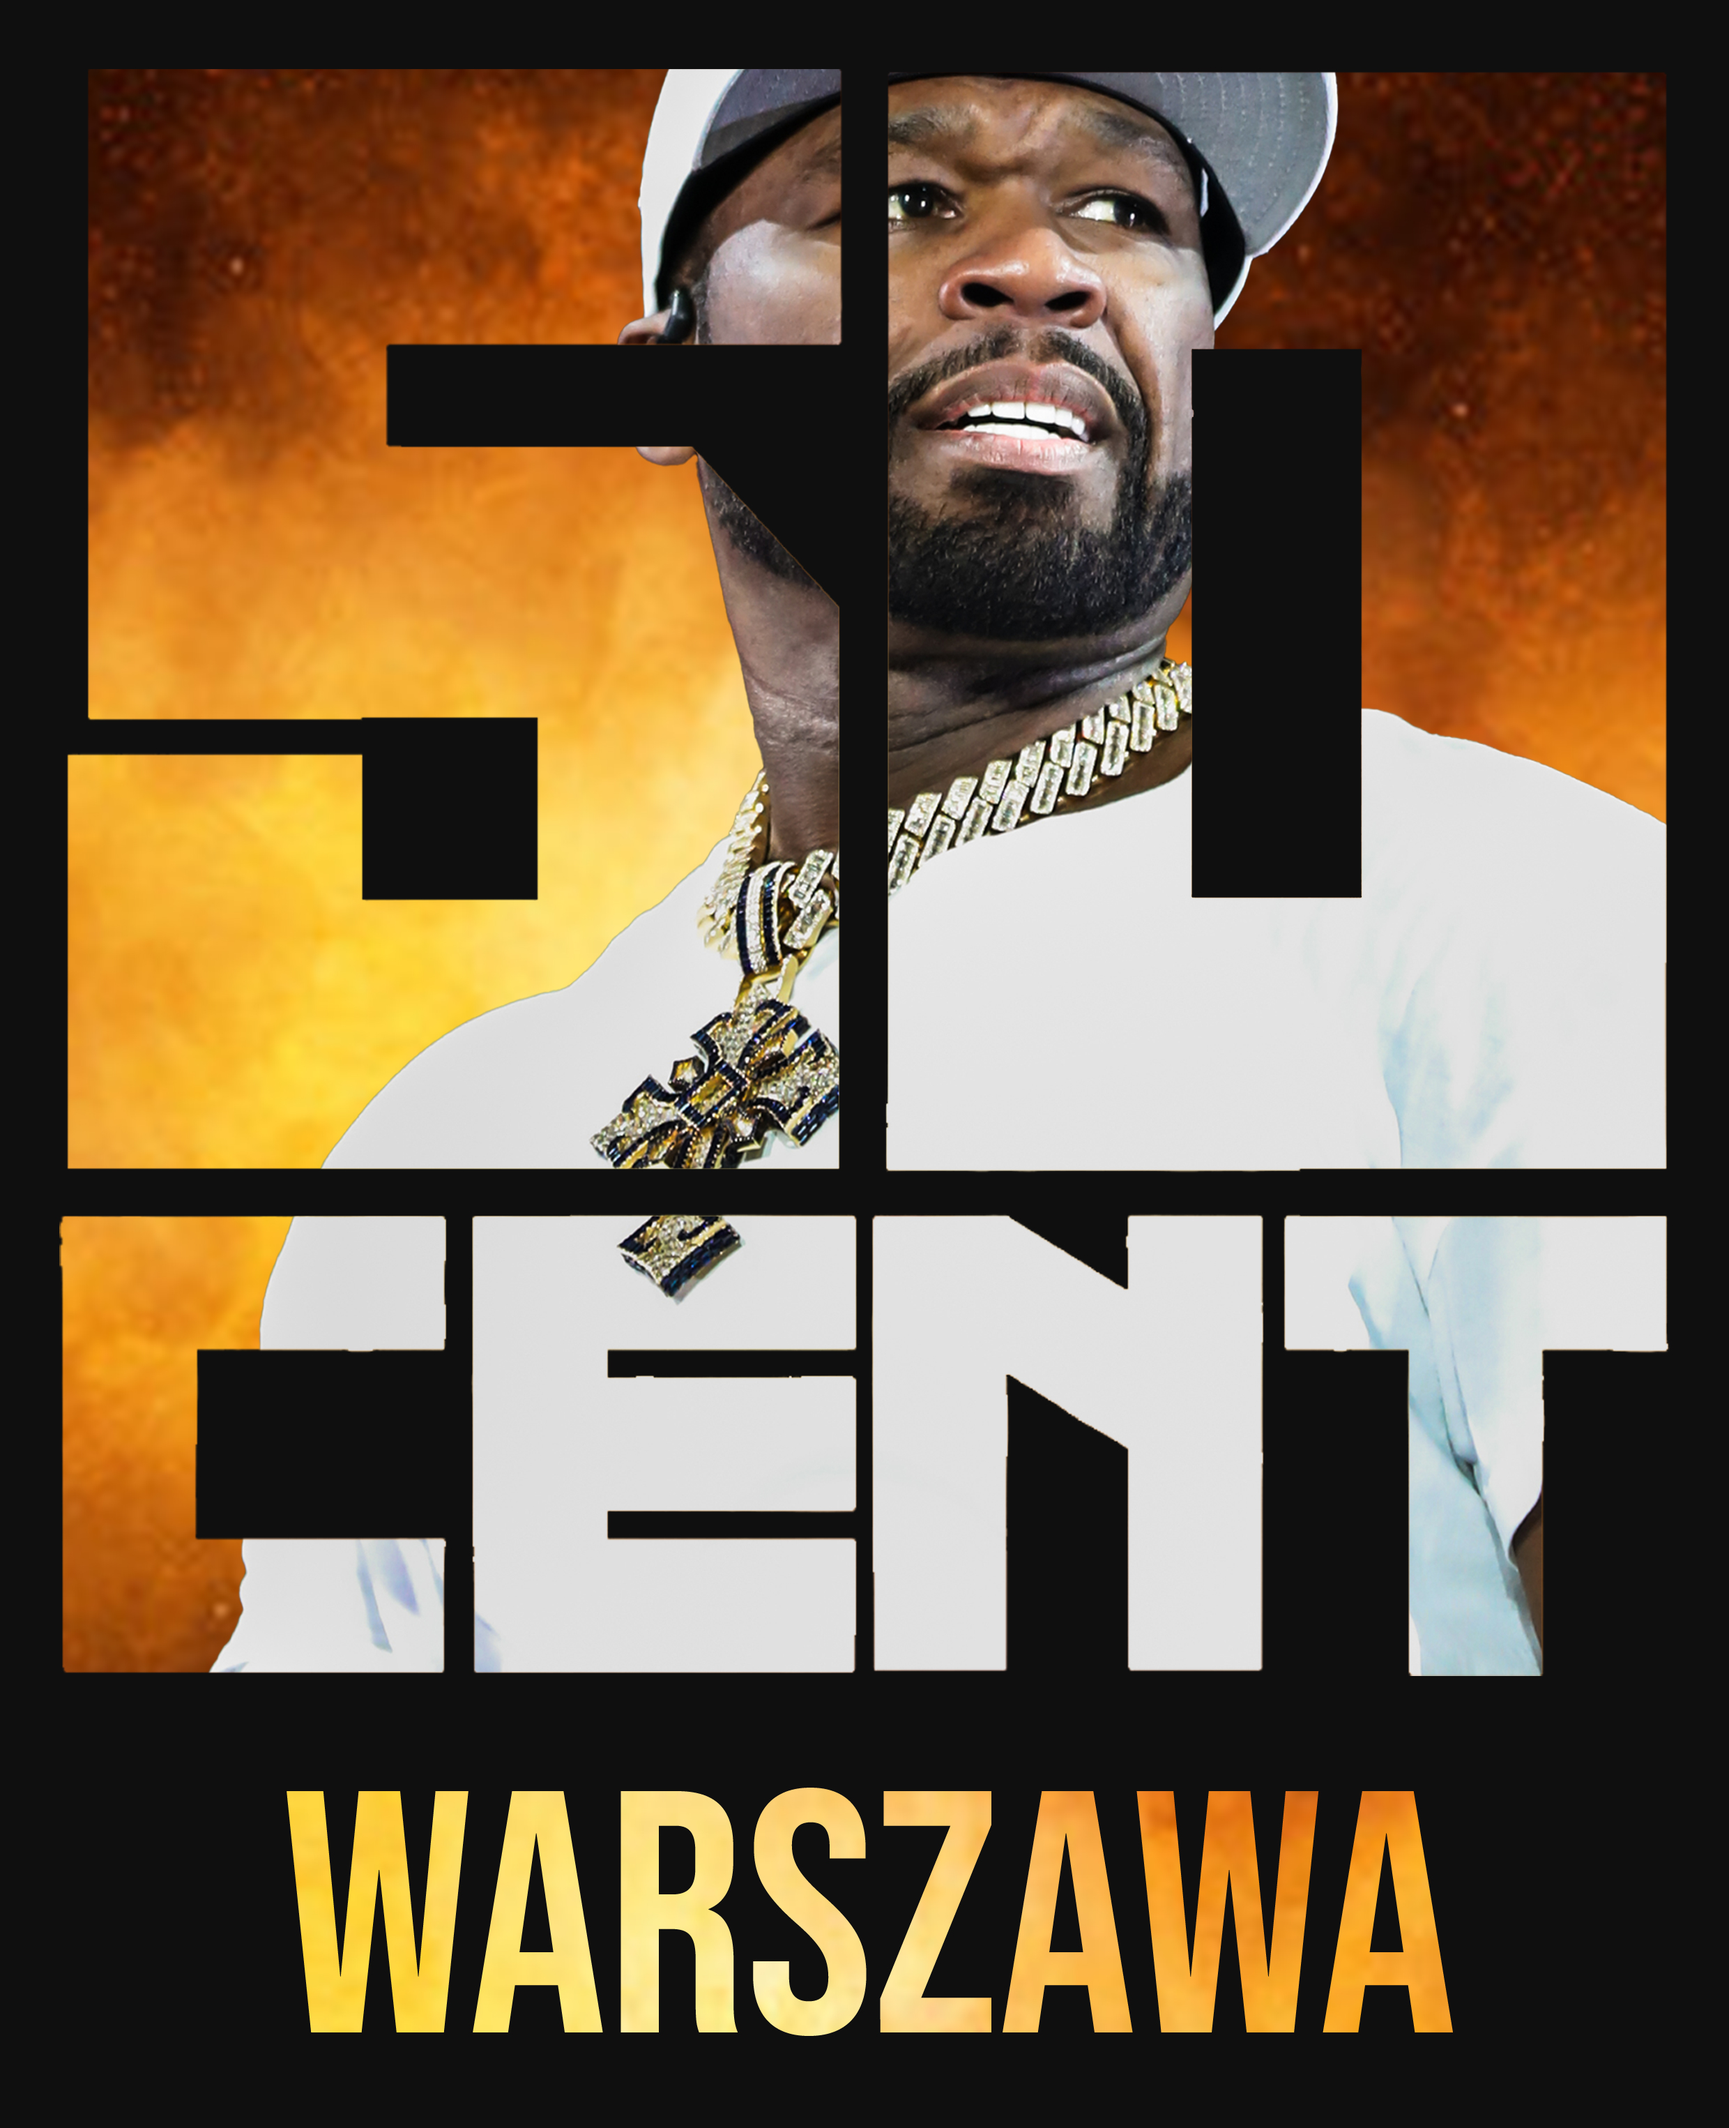
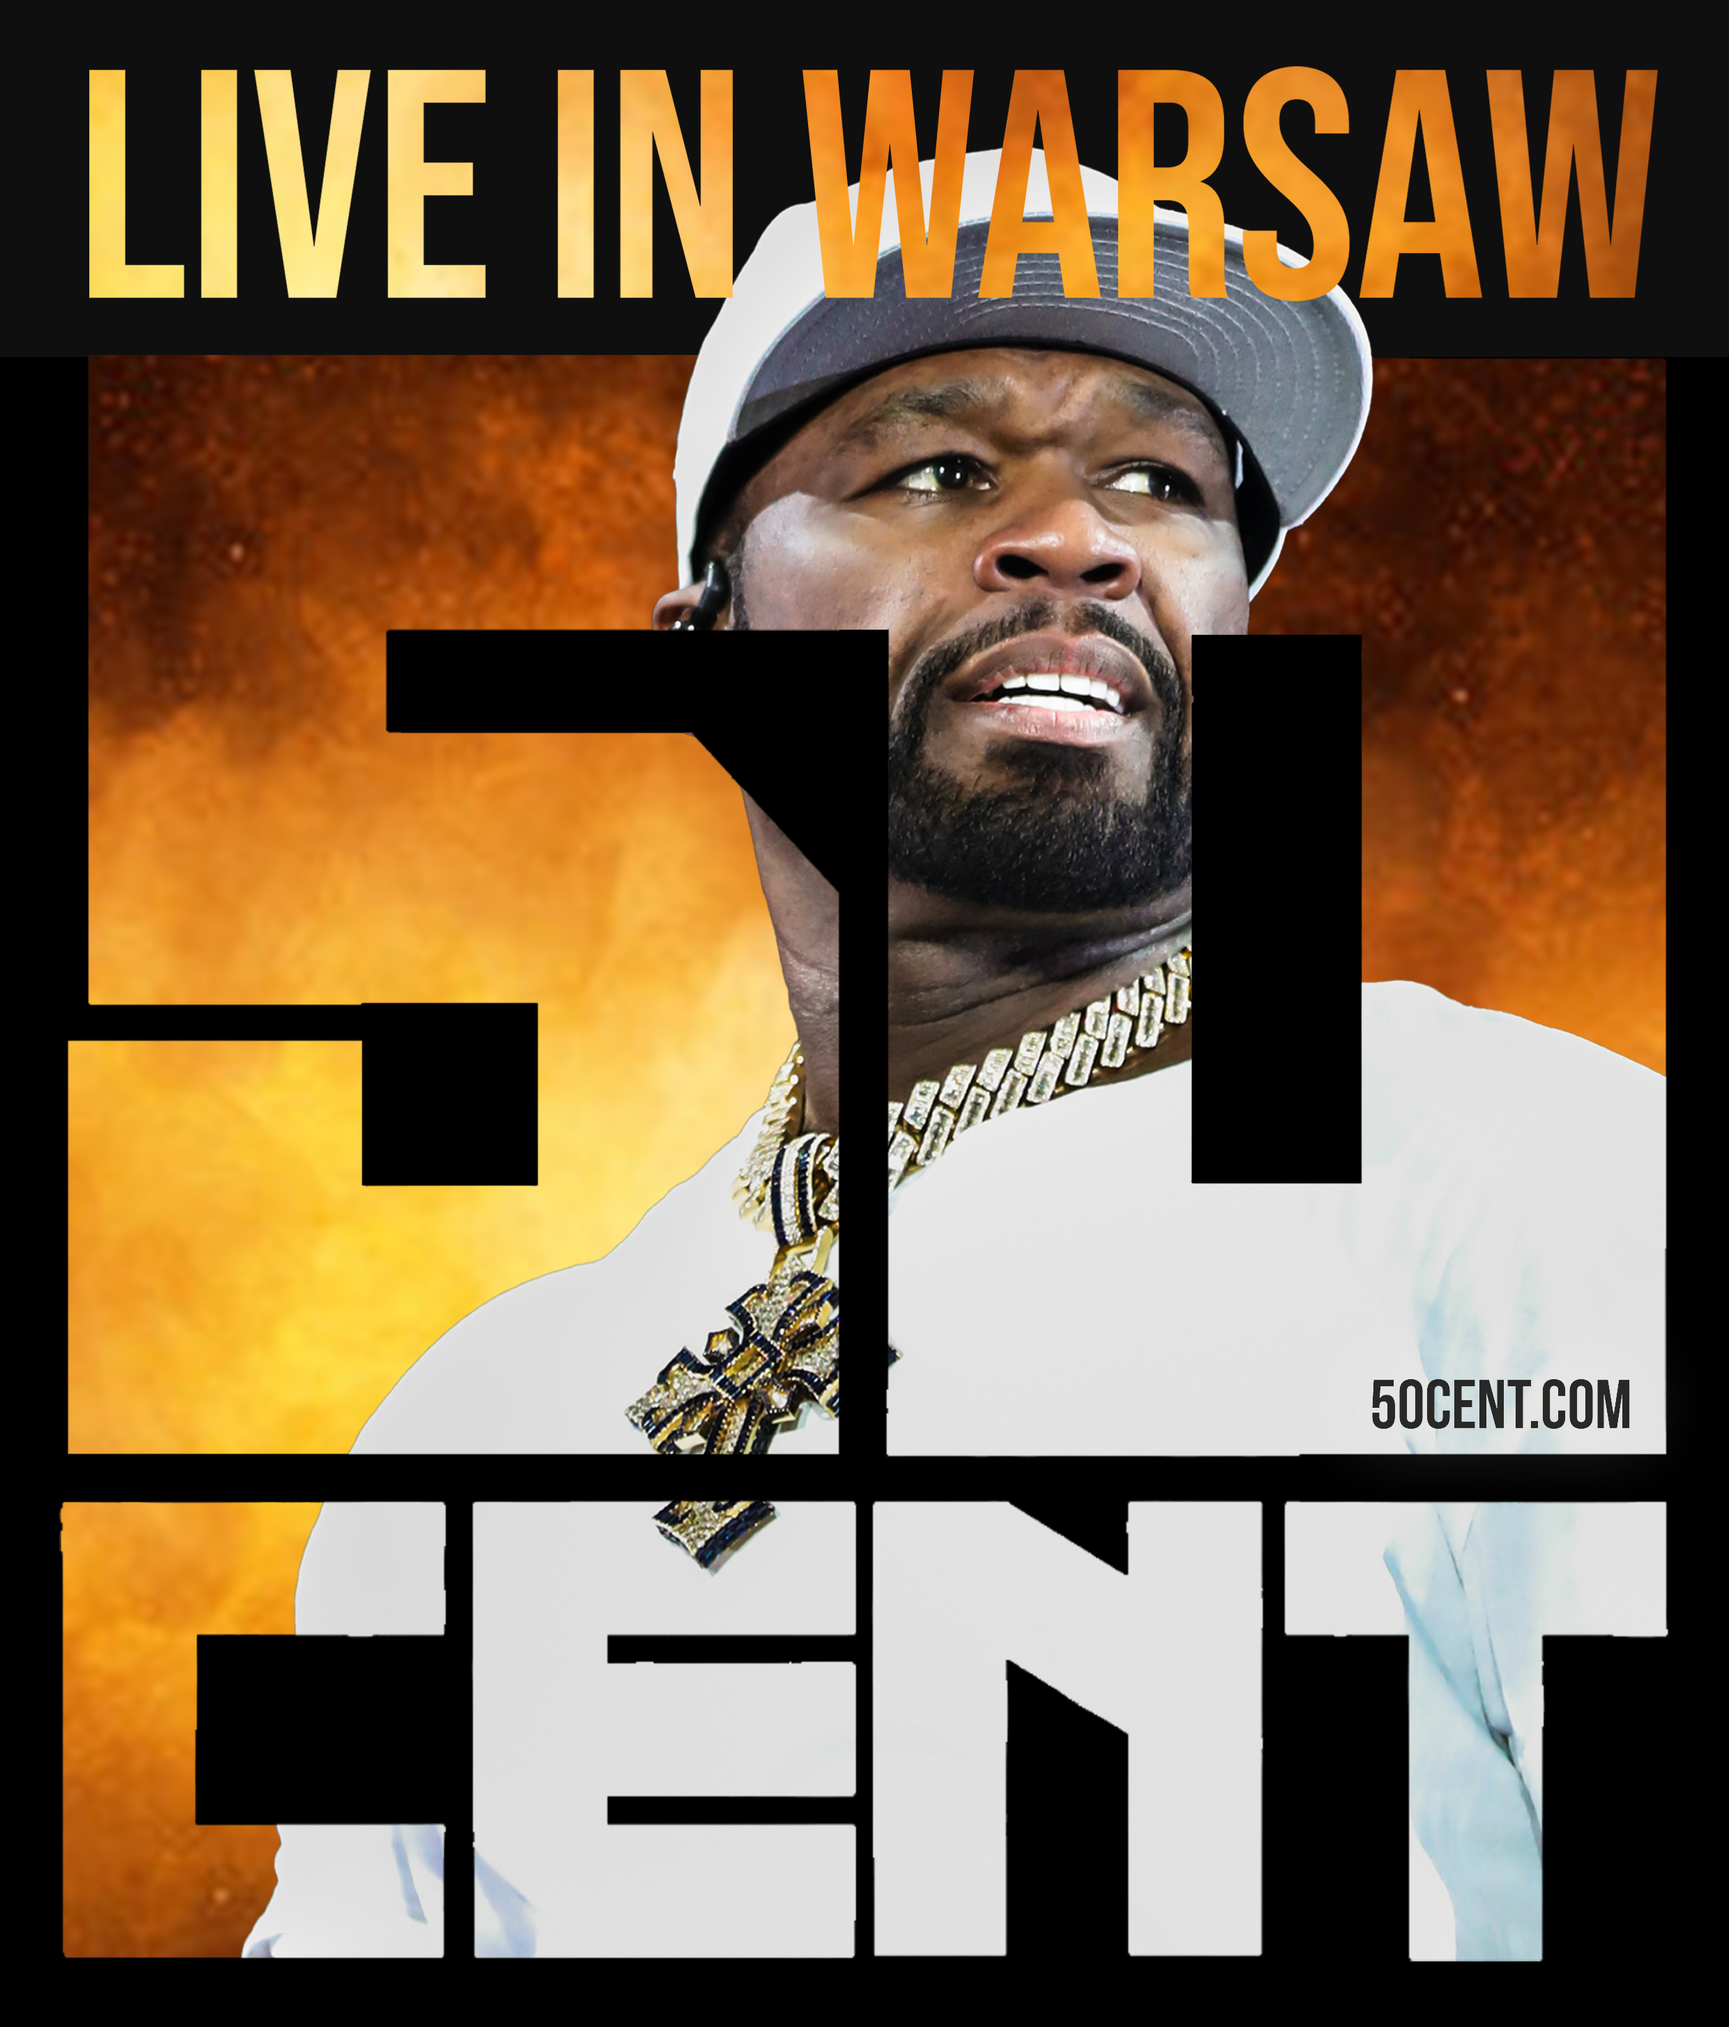
Обновил код

diff --git a/landing-50cent/components/Hero.jsx b/landing-50cent/components/Hero.jsx
@@ -1,143 +1,101 @@
 // components/Hero.jsx
 'use client'
 
-import { motion } from 'framer-motion'
-import CountdownTimer from './CountdownTimer'
-import { useState, useEffect, useRef } from 'react'
-import { usePathname } from 'next/navigation'
-import { ChevronDown } from 'lucide-react'
+import { useEffect, useRef, useState } from 'react'
+import { motion }            from 'framer-motion'
+import { usePathname }       from 'next/navigation'
+import { ChevronDown }       from 'lucide-react'
+import CountdownTimer        from './CountdownTimer'
 
 export default function Hero({ bgImage, targetDate }) {
-  const heroRef = useRef(null)
-  const pathname = usePathname()
-
+  const heroRef   = useRef(null)
+  const pathname  = usePathname()
   const [showArrow, setShowArrow] = useState(true)
 
+  /* ── динамический расчёт высоты ── */
   useEffect(() => {
-    // function updateHeight() {
-    //   const hdr = document.querySelector('header')
-    //   const hero   = heroRef.current
-    // //   if (!header || !hero) return
-    // //   hero.style.height = `${window.innerHeight - header.offsetHeight}px`
-    // if (hdr && hero) {
-    //     hero.style.height = `${window.innerHeight - hdr.offsetHeight}px`
-    //   }
-    
     function updateHeight() {
-        const hdr  = document.querySelector('header')
-        const hero = heroRef.current
-        const bar  = document.getElementById('mobile-buy-bar')
-        const barH = bar && getComputedStyle(bar).display !== 'none'
-                ? bar.offsetHeight
-                : 0
-        if (hdr && hero) {
-        hero.style.height = `${window.innerHeight - hdr.offsetHeight - barH}px`
-        }    
+      const hero = heroRef.current
+      const hdr  = document.querySelector('header')
+      const bar  = document.getElementById('mobile-buy-bar')
+
+      if (!hero || !hdr) return
+
+      const barH = bar && getComputedStyle(bar).display !== 'none'
+        ? bar.offsetHeight
+        : 0
+
+      /* ① сколько места есть по высоте */
+      const avail = window.innerHeight - hdr.offsetHeight - barH
+
+      /* ② максимум по соотношению (H ≤ 1.5 × W) */
+      const maxByRatio = hero.getBoundingClientRect().width * 1.5
+
+      hero.style.height = `${Math.min(avail, maxByRatio)}px`
     }
-
-
 
     updateHeight()
     window.addEventListener('resize', updateHeight)
+    return () => window.removeEventListener('resize', updateHeight)
+  }, [])
 
-    // const onScroll = () => setShowArrow(false)
-    // прячем стрелку, когда прокрутка > определённого значения
-    const threshold = heroRef.current
-        ? heroRef.current.offsetHeight * 0.1  // например, половины высоты Hero
-        : 100                                 // или 100px запасной вариант
-    const onScroll = () => {
-        if (window.scrollY > threshold) {
-        setShowArrow(false)
-        }
-    }
+  /* ── прячем стрелку при прокрутке hero на 10 % ── */
+  useEffect(() => {
+    const hero = heroRef.current
+    if (!hero) return
 
-    window.addEventListener('scroll', onScroll)
+    const threshold = hero.offsetHeight * 0.1
+    const onScroll  = () => window.scrollY > threshold && setShowArrow(false)
 
-    return () => {
-        window.removeEventListener('resize', updateHeight)
-        window.removeEventListener('scroll', onScroll)
-      }
+    window.addEventListener('scroll', onScroll, { passive: true })
+    return () => window.removeEventListener('scroll', onScroll)
   }, [pathname])
 
-  const scrollDown = () => {
+  const scrollDown = () =>
     document.getElementById('nextSection')?.scrollIntoView({ behavior: 'smooth' })
-  }
 
   return (
     <section
       ref={heroRef}
       className="
-        hero-section
-        relative
-        overflow-hidden
-        flex flex-col items-center justify-center
-        bg-[#0f0f0f]
-        // bg-center bg-cover
+        hero-section relative overflow-hidden
+        flex flex-col items-center justify-center bg-[#0f0f0f]
       "
-    //   style={{ backgroundImage: `url(${bgImage})` }}
-    // style={{ backgroundImage: "url('/images/stadium.png')" }}
-
     >
-        {/* ← слой стадиона */}
-    <img
+      {/* фоновый стадион */}
+      <img
         src="/images/stadium.png"
         alt=""
         className="absolute inset-0 w-full h-full object-cover opacity-30"
-    />
-      {/* ────────────── 85%: блок с изображением и оверлеем ────────────── */}
-      {/* <div className="relative w-full h-[85%] flex items-center justify-center overflow-hidden">
-        <img
-          src={bgImage}
-          alt="Hero"
-          className="absolute inset-0 w-auto h-full object-contain mx-auto"
-        />
-      </div> */}
+      />
+
+      {/* постер артиста (займёт всё свободное сверху) */}
       <motion.div
-        className="relative w-full h-[85%] overflow-hidden"
-        initial={{ opacity: 0 }}
-        animate={{ opacity: 1 }}
-        transition={{ delay: 0.3, duration: 1 }}
+        className="relative w-full flex-1 overflow-hidden"
+        initial={{ opacity: 0 }} animate={{ opacity: 1 }}
+        transition={{ delay: .3, duration: 1 }}
       >
         <img
           src={bgImage}
           alt=""
-          className="absolute inset-x-0 top-0 h-full w-auto object-contain object-top mx-auto"
+          className="absolute inset-x-0 top-0 h-full w-auto mx-auto object-contain object-top"
         />
-        {/* <div className="absolute inset-0 bg-black/50" /> */}
       </motion.div>
 
-      {/* ────────────── 15%: блок с таймером ────────────── */}
-      <div className="w-full h-[15%] flex flex-col items-center justify-between relative z-10">
-        <motion.div
-          initial={{ opacity: 0, y: 20 }}
-          animate={{ opacity: 1, y: 0 }}
-          transition={{ duration: 0.8 }}
-        >
-          <CountdownTimer targetDate={targetDate} />
-        </motion.div>
+      {/* таймер + стрелка */}
+      <div className="w-full py-4 flex flex-col items-center">
+        <CountdownTimer targetDate={targetDate} />
 
-      {/* стрелочка вниз */}
-      {/* <button
-        onClick={scrollDown}
-        className="bottom-4 left-1/2 transform text-white animate-bounce p-2"
-        aria-label="Scroll down"
-      >
-        <ChevronDown size={32} />
-      </button> */}
-      {showArrow && (
-        <button
-          onClick={scrollDown}
-          className="bottom-4 left-1/2 transform text-white animate-bounce cursor-pointer"
-          aria-label="Scroll down"
-        >
-          <ChevronDown size={32} />
-        </button>
-      )}
+        {showArrow && (
+          <button
+            onClick={scrollDown}
+            className="mt-3 text-white animate-bounce"
+            aria-label="Scroll down"
+          >
+            <ChevronDown size={32}/>
+          </button>
+        )}
       </div>
-
     </section>
   )
 }
-
-
-

diff --git a/landing-50cent/public/styles.css b/landing-50cent/public/styles.css
@@ -262,9 +262,6 @@
   .bottom-0 {
     bottom: calc(var(--spacing) * 0);
   }
-  .bottom-4 {
-    bottom: calc(var(--spacing) * 4);
-  }
   .left-0 {
     left: calc(var(--spacing) * 0);
   }
@@ -309,6 +306,9 @@
   }
   .mt-2 {
     margin-top: calc(var(--spacing) * 2);
+  }
+  .mt-3 {
+    margin-top: calc(var(--spacing) * 3);
   }
   .mt-4 {
     margin-top: calc(var(--spacing) * 4);
@@ -378,12 +378,6 @@
   }
   .h-7 {
     height: calc(var(--spacing) * 7);
-  }
-  .h-\[15\%\] {
-    height: 15%;
-  }
-  .h-\[85\%\] {
-    height: 85%;
   }
   .h-\[360px\] {
     height: 360px;
